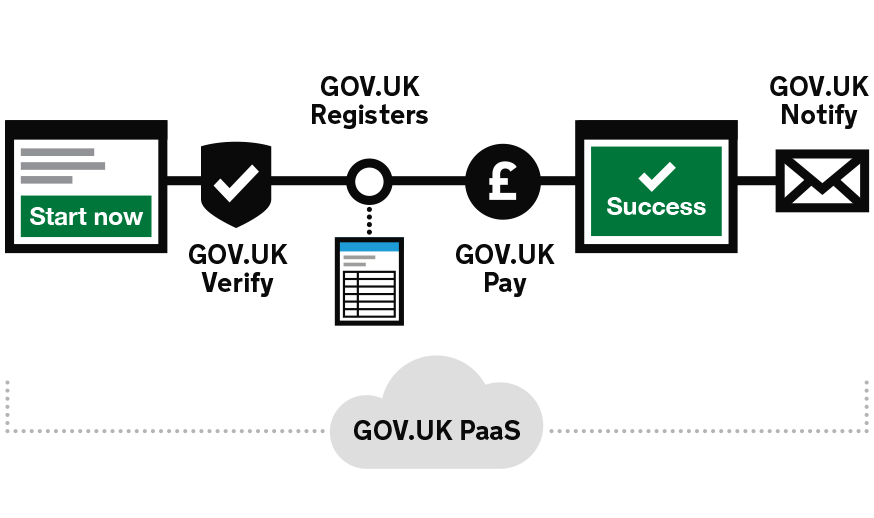
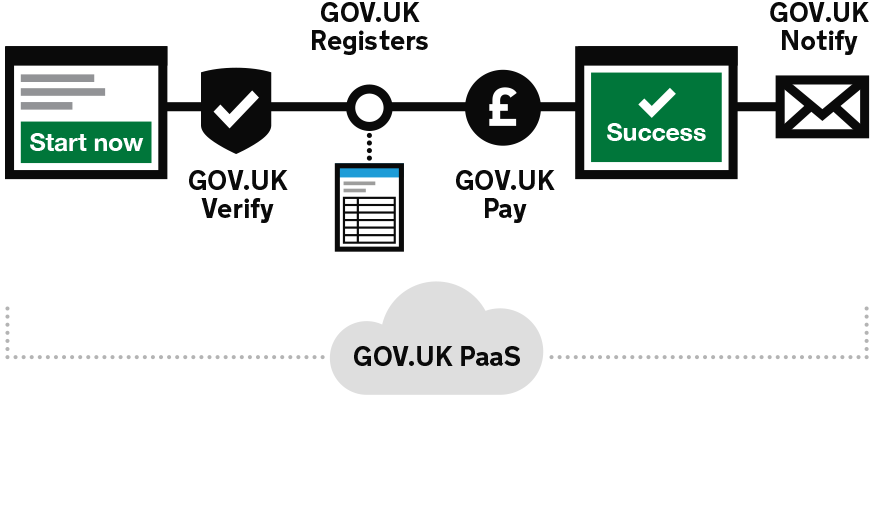
updated layout and case study pull-outs

diff --git a/app/views/gaap-components.html b/app/views/gaap-components.html
@@ -35,9 +35,10 @@
         <h1 class="heading-xlarge">Assemble, deploy and run services using common government platforms</h1>
 
       </div>
-      <div class="column-one-third product-overview-intro-image">
-        <!-- <img class= "top-image" src="/public/images/gaap-top-image.png" alt""> -->
-      </div>
+      <div class="column-one-third">
+      <!-- <img class= "panel-image" src="/public/images/platforms-top-image.png" alt""> -->
+    </div>
+    
     </div>
   </div>
 </div>
@@ -46,11 +47,13 @@
 <main id="content" role="main">
 <div class="grid-row">
 <div class="column-full">
-  <h2 class="heading-medium">Designed with service teams in mind</h2>
 </div>
 <div class="column-half">
+<h2 class="heading-medium">Designed with service teams in mind</h2>
   <p>Service teams doing digital transformation across government try to solve similar issues. Verifying someone’s identity, taking payments or keeping user’s updated about the progress of their case are common elements of many digital transactions.</p>
+  
   <p>Common platforms were designed with the needs of these teams in mind:</p>
+  
   <ul class="list list-bullet">
     <li>they’re easy to procure, use and integrate</li>
     <li>they avoid whenever possible being locked into a vendor</li>
@@ -58,11 +61,20 @@
     <li>their features are based on input from service teams </li>
     <li>the paid plans are devised to cover costs and not to make a profit</li>
   </ul>
+
   </div>
-  <div class="column-half">
-  <p>Together with the guidance, standards, patterns and tools provided in the <a href="">Service Toolkit</a>, they help service teams deliver world-class digital services based on their users’ needs.</p>
-  <img class= "panel-image" src="/public/images/gaap-end-to-end.png" alt"">
-  </div>
+    <div class="column-half">
+    <img class= "panel-image" src="/public/images/gaap-end-to-end-4.png" alt"">
+
+    <p>Together with the guidance, standards, patterns and tools provided in the <a href="">Service Toolkit</a>, they help service teams deliver world-class digital services based on their users’ needs.</p>
+
+    </div>
+  <!-- <div class="column-half" style="border: 1px solid #BFC1C3; margin-top:45px; background-color: #F8F8F8;">
+      <img class= "panel-image" src="/public/images/dbs-platforms.png" alt"">
+      <a href=""https://governmentasaplatform.blog.gov.uk/2018/03/14/disclosure-barring-service/""><h2 class="heading-small" id="6">See which benefits common platforms unlocked for Disclosure and Barring Service</h2></a>
+
+      <p>Disclosure and Barring Service decided to adopt common platforms to save on procurement costs, but they realised they could deliver digital services faster as well.
+    </div> -->
 </div>
 
 
@@ -70,23 +82,31 @@
 <div class="grid-row">
 <div class="column-full">
       <div class="section-border-top">
+      <h2 class="heading-medium">Platforms and components</h2>
       </div>
 </div>
-  <div class="column-one-third">
-  <h2 class="heading-medium">Platforms and components</h2> 
-    <img class= "panel-image" src="/public/images/platform-image.png" alt"">
+  <div class="column-one-third"> 
+    <img class= "panel-image" src="/public/images/notify-image.png" alt"">
 	  	<p>Keep your users updated via emails, text messages and letters with <a href="">GOV.UK Notify</a></p>
+  </div>
+  <div class="column-one-third"> 
+    <img class= "panel-image" src="/public/images/pay-image.png" alt"">
       <p>Take and process payments for your service with <a href="">GOV.UK Pay</a></p>
+  </div>
+  <div class="column-one-third"> 
+    <img class= "panel-image" src="/public/images/verify-image.png" alt"">
       <p>Allow users to prove their identity with <a href="">GOV.UK Verify</a></p>
   </div>
+<div class="grid-row">
+</div>
   <div class="column-one-third">
   <h2 class="heading-medium">Data infrastructure</h2> 
-  <img class= "panel-image" src="/public/images/data-image.png" alt"">
+  <img class= "panel-image" src="/public/images/registers-image.png" alt"">
       <p>Get access to live and authoritative data to build your service with <a href="">GOV.UK Registers</a></p>
   </div>
   <div class="column-one-third">
    <h2 class="heading-medium">Cloud hosting</h2> 
-  <img class= "panel-image" src="/public/images/cloud-image.png" alt"">
+  <img class= "panel-image" src="/public/images/paas-image.png" alt"">
       <p>Set up your infrastructure without web ops, and deploy and run your apps in minutes with <a href="">GOV.UK PaaS</a></p>
   </div>
 
@@ -94,49 +114,74 @@
 	  
 
 
-<div class="grid-row">
+<!-- <div class="grid-row">
     <div class="column-full">
-      <div class="section-border-top">
+      <div class="section-border-top" style ="margin-bottom:30px;">
       <h2 class="heading-medium" id="6">Service stories</h2>
       </div>
     </div>
-    <div class="column-half">
+    <div class="column-one-third">
       <img class= "panel-image" src="/public/images/dbs-platforms.png" alt"">
+      <h2 class="heading-small" id="6">Read about how Disclosure and Barring Service are using common platforms</h2>
 
-    </div>
-    <div class="column-half">
       <p>Disclosure and Barring Service decided to adopt common platforms to save on procurement costs, but they realised they could deliver digital services faster as well.</p>
         <p>See which <a href="https://governmentasaplatform.blog.gov.uk/2018/03/14/disclosure-barring-service/">benefits common platforms unlocked for DBS</a></p>
-  </div>        
- </div>
+
+    </div>
+    <div class="column-one-third">
+      <img class= "panel-image" src="/public/images/dbs-platforms.png" alt"">
+      <h2 class="heading-small" id="6">Read about how Disclosure and Barring Service are using common platforms</h2>
+
+      <p>Disclosure and Barring Service decided to adopt common platforms to save on procurement costs, but they realised they could deliver digital services faster as well.</p>
+        <p>See which <a href="https://governmentasaplatform.blog.gov.uk/2018/03/14/disclosure-barring-service/">benefits common platforms unlocked for DBS</a></p>
+
+    </div>
+    <div class="column-one-third">
+      <img class= "panel-image" src="/public/images/dbs-platforms.png" alt"">
+      <h2 class="heading-small" id="6">Read about how Disclosure and Barring Service are using common platforms</h2>
+
+      <p>Disclosure and Barring Service decided to adopt common platforms to save on procurement costs, but they realised they could deliver digital services faster as well.</p>
+        <p>See which <a href="https://governmentasaplatform.blog.gov.uk/2018/03/14/disclosure-barring-service/">benefits common platforms unlocked for DBS</a></p>
+
+    </div>       
+ </div> -->
 
  <div class="grid-row">
     <div class="column-full">
       <div class="section-border-top">
-      <h2 class="heading-medium" id="6">Case studies</h2>
+      <h2 class="heading-medium" id="6">Services using common platforms</h2>
       </div>
     </div>
+    <div class="column-half">
+      <img class= "panel-image" src="/public/images/dbs-platforms.png" alt"">
+    </div>
+    <div class="column-half">
+    <h2 class="heading-medium" style="margin-top:0px;"><a href="https://governmentasaplatform.blog.gov.uk/2018/03/14/disclosure-barring-service/">See which benefits common platforms unlocked for Disclosure and Barring Service (DBS)</a></h2>
+    <p>Disclosure and Barring Service decided to adopt common platforms to save on procurement costs, but they realised they could deliver digital services faster as well.</p>
+    </div>
+</div>
+<div class="grid-row">
     <div class="column-one-third">
-        <div class="data">
+        <div class="data" style="margin-top:60px;">
         <span class="data-item bold-xxlarge">880</span>
-        <span class="data-item font-xsmall">hours saved yearly for Veterans Welfare Service through adopting <a href="">GOV.UK Notify</a></span>
-        <div class="data">
-        </div>
-        <span class="data-item bold-xxlarge">£137k</span>
-        <span class="data-item font-xsmall">of avoided build and maintenance costs for TfL through adopting <a href="">GOV.UK Notify</a> </span>
+        <p><a href="#">hours saved yearly for Veterans Welfare Service</a> through adopting GOV.UK Notify</p>
         </div>
     </div>
     <div class="column-one-third">
-        <div class="data">
-        <span class="data-item bold-xxlarge">£150k</span>
-        <span class="data-item font-xsmall">of avoided costs from easier reconciliations for DBS through adopting <a href="">GOV.UK Pay</a> </span>
-        </div>
-        <div class="data">
+        <div class="data" style="margin-top:60px;">
         <span class="data-item bold-xxlarge">£1.2m</span>
-        <span class="data-item font-xsmall">of avoided costs doing identity checks for DBS through adopting <a href="">GOV.UK Verify</a> </span>
+        <p><a href="#">of avoided costs doing identity checks for DBS</a> through adopting GOV.UK Verify</p>
         </div>
     </div>
+
     <div class="column-one-third">
+        <div class="data" style="margin-top:60px;">
+        <span class="data-item bold-xxlarge">470</span>
+        <p><a href="#">hours saved yearly for Border Force</a> through adopting GOV.UK Pay</p>
+        </div>
+    </div>
+
+    <!-- <div class="column-one-third">
       <p class="bold-small">Read more case studies</p>
       <ul class="list">
         <li><a href="">GOV.UK Notify migration to GOV.UK PaaS</a></li>
@@ -144,7 +189,29 @@
         <li><a href="">TfL Dial-a-Ride and Notify</a></li>
         <li><a href="">DBS and Notify, Pay and Verify</a></li>
       </ul>
-  </div>        
+  </div>  -->       
+ </div>
+
+ <div class="grid-row">
+    <div class="column-one-third">
+        <div class="data" style="margin-top:60px;">
+        <span class="data-item bold-xxlarge">£100k</span>
+        <p><a href="#">of avoided build and run costs for Pension Wise</a> through adopting GOV.UK Notify</p>
+        </div>
+    </div>
+    <div class="column-one-third">
+        <div class="data" style="margin-top:60px;">
+        <span class="data-item bold-xxlarge">150</span>
+        <p><a href="#">hours of deployment time saved annually for Digital Marketplace</a> through adopting GOV.UK PaaS</p>
+        </div>
+    </div>
+
+    <div class="column-one-third">
+        <div class="data" style="margin-top:60px;">
+        <span class="data-item bold-xxlarge">£1.3m</span>
+        <p><a href="#">of labour and material costs saved annually for Lasting Power of Attorney</a> through adopting GOV.UK Notify and GOV.UK Pay</p>
+        </div>
+    </div>       
  </div>
 
 
@@ -155,7 +222,7 @@
     </div>
   <div class="column-third">
 	  <h2 class="heading-medium">Principles and funding</h2>
-	  	<p>Our products are built and run in GDS following the <a href="https://governmentasaplatform.blog.gov.uk/2016/02/29/governmentasaplatform-foundations/">Government as a Platform approach</a>. Read more about <a href="">how this work is funded</a>.</p>
+	  	<p>Our products are built and run in GDS following the <a href="https://governmentasaplatform.blog.gov.uk/2016/02/29/governmentasaplatform-foundations/">Government as a Platform approach</a>. They are centrally funded.</p>
     </div>
     <div class="column-third">
     <h2 class="heading-medium"> 24/7 support</h2>
